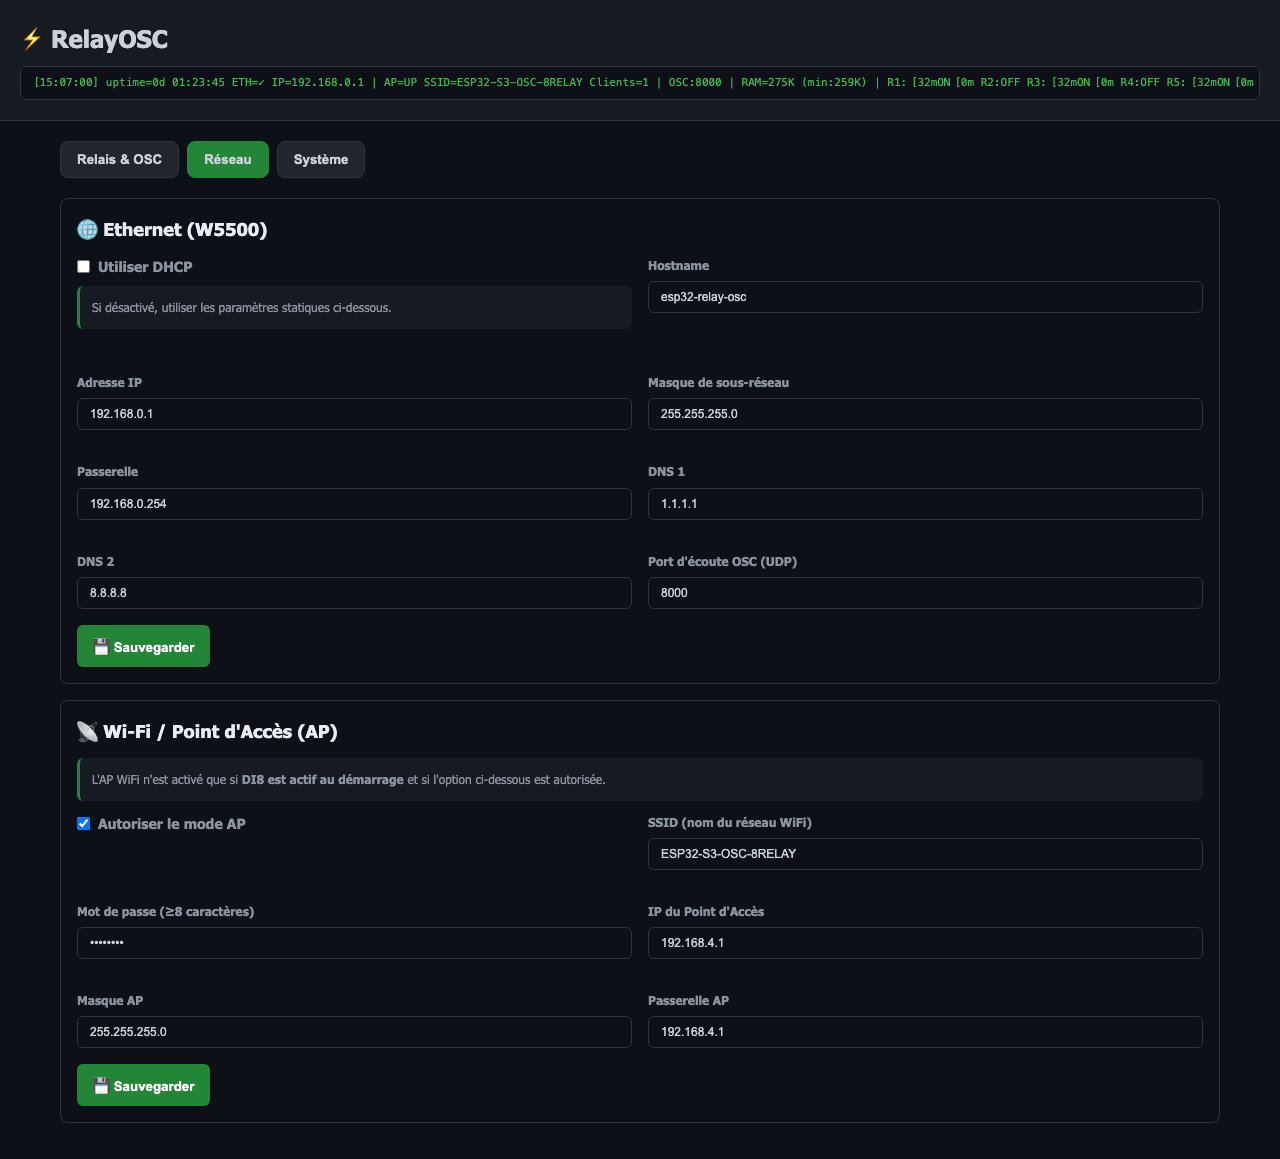
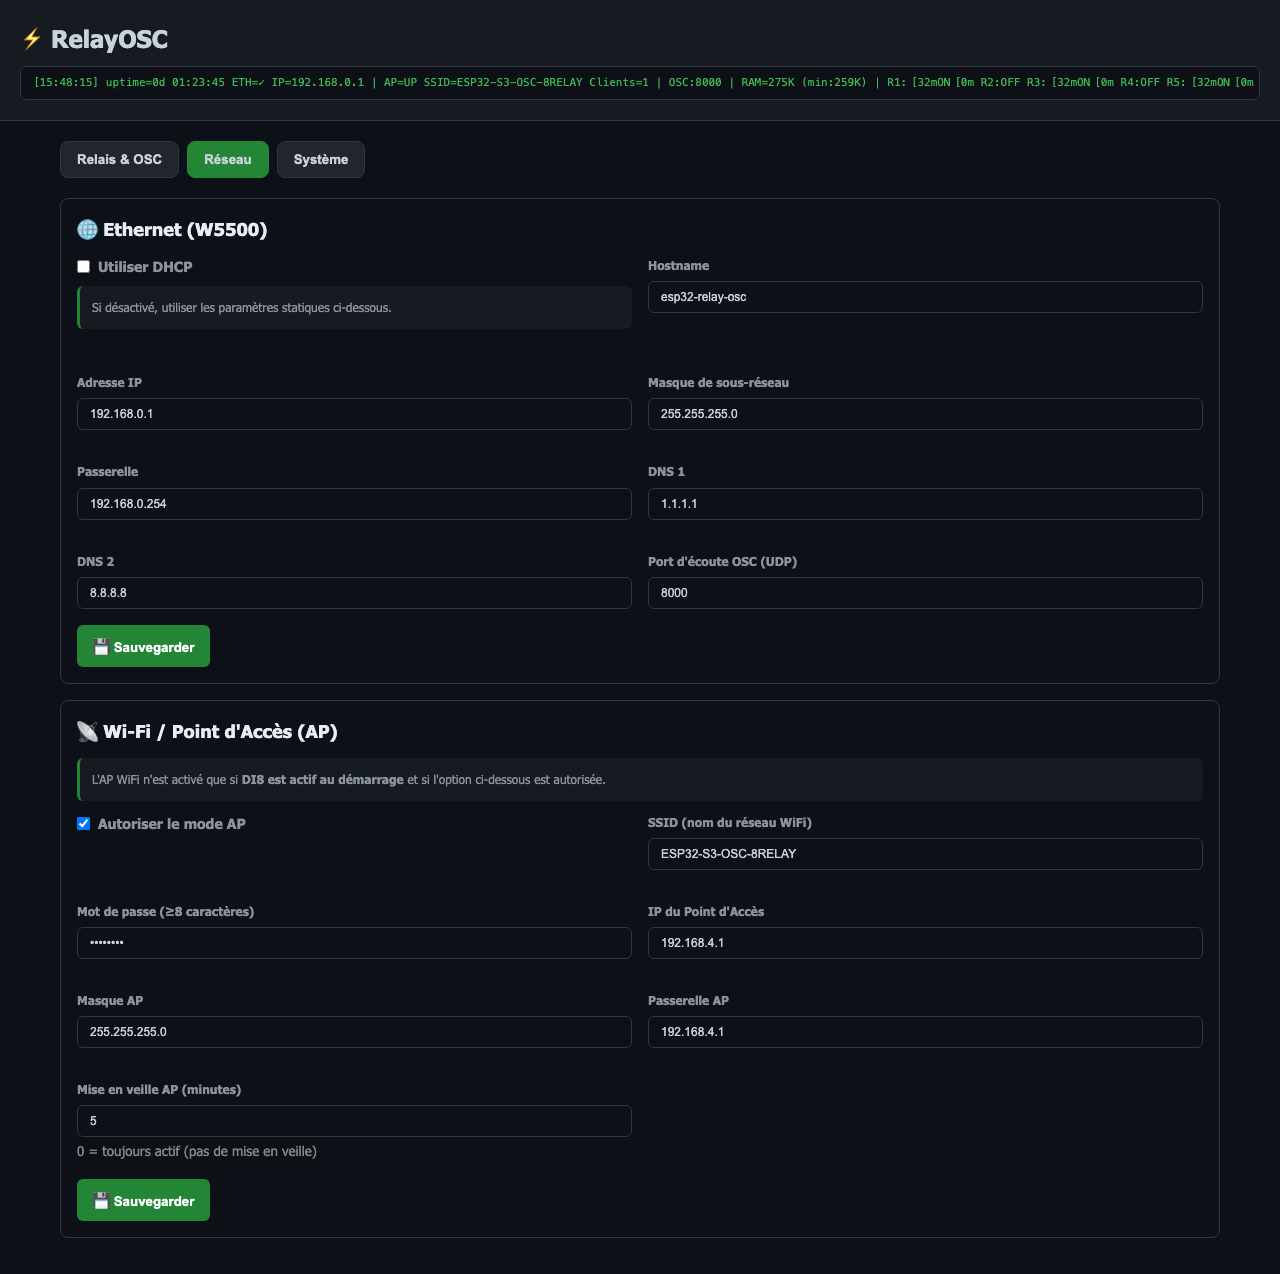
docs: update screenshots with AP timeout and system info

diff --git a/docs/gen_screenshots.py b/docs/gen_screenshots.py
@@ -29,6 +29,7 @@ const fakeConfig = {
   apIp: "192.168.4.1",
   apGw: "192.168.4.1",
   apMask: "255.255.255.0",
+  apTimeoutMin: 5,
   relays: [
     {oscAddress: "/relay/1", invert: false, mode: 0},
     {oscAddress: "/relay/2", invert: false, mode: 0},
@@ -52,7 +53,8 @@ const fakeSystemStatus = {
   oscPort: 8000,
   apSsid: "ESP32-S3-OSC-8RELAY",
   relays: [true, false, true, false, true, false, false, true],
-  apClients: 1
+  apClients: 1,
+  apTimeoutMin: 5
 };
 
 const origFetch = window.fetch;
